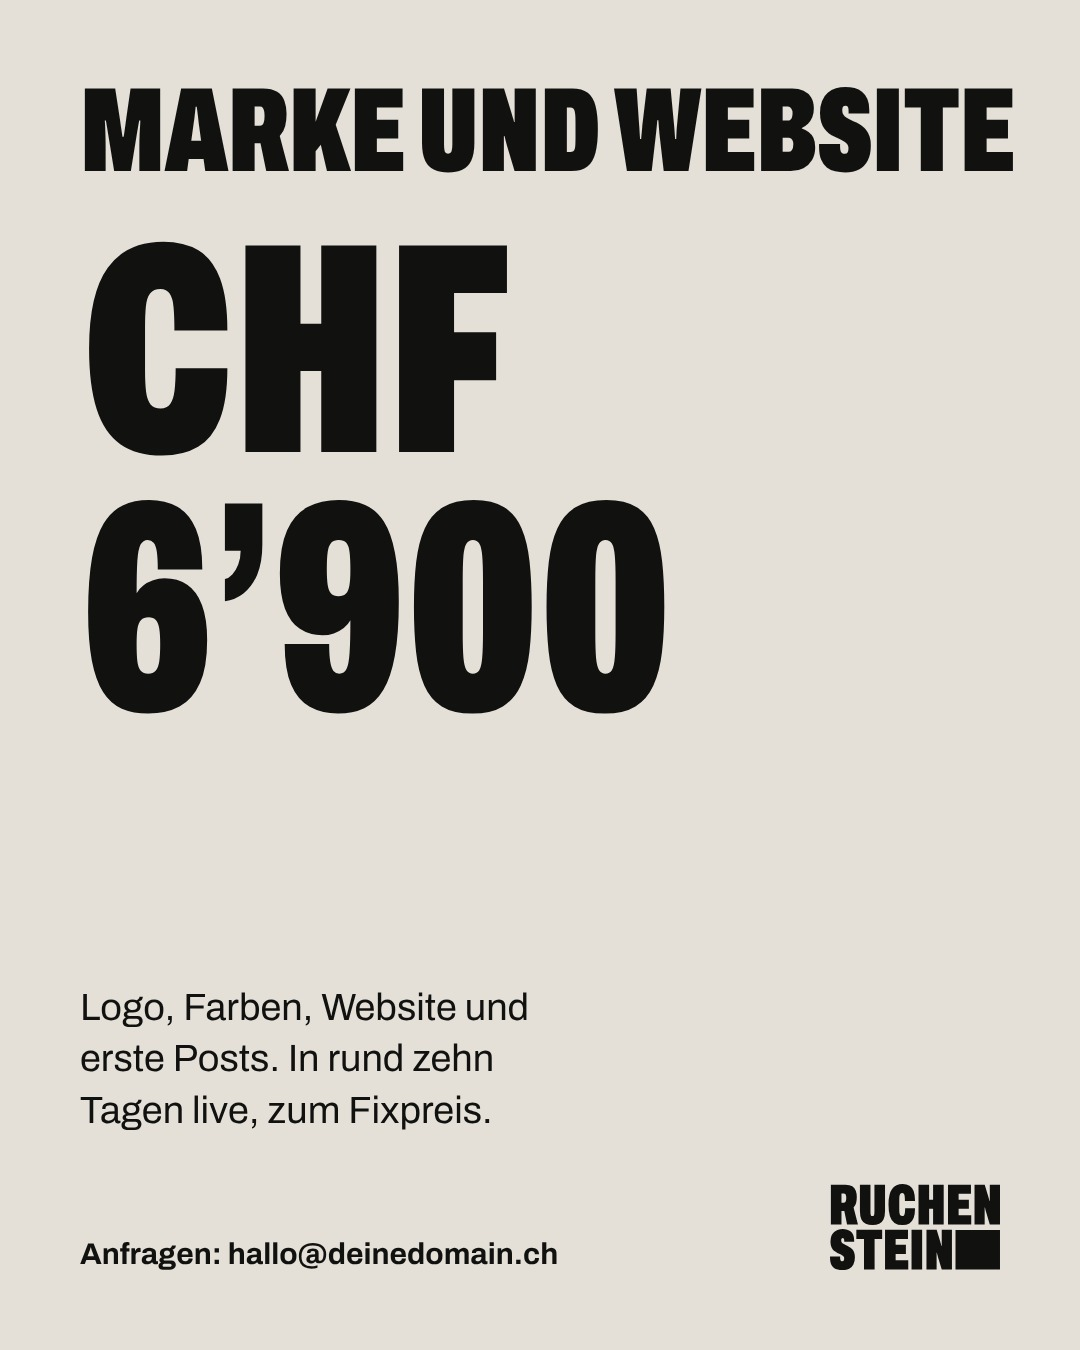
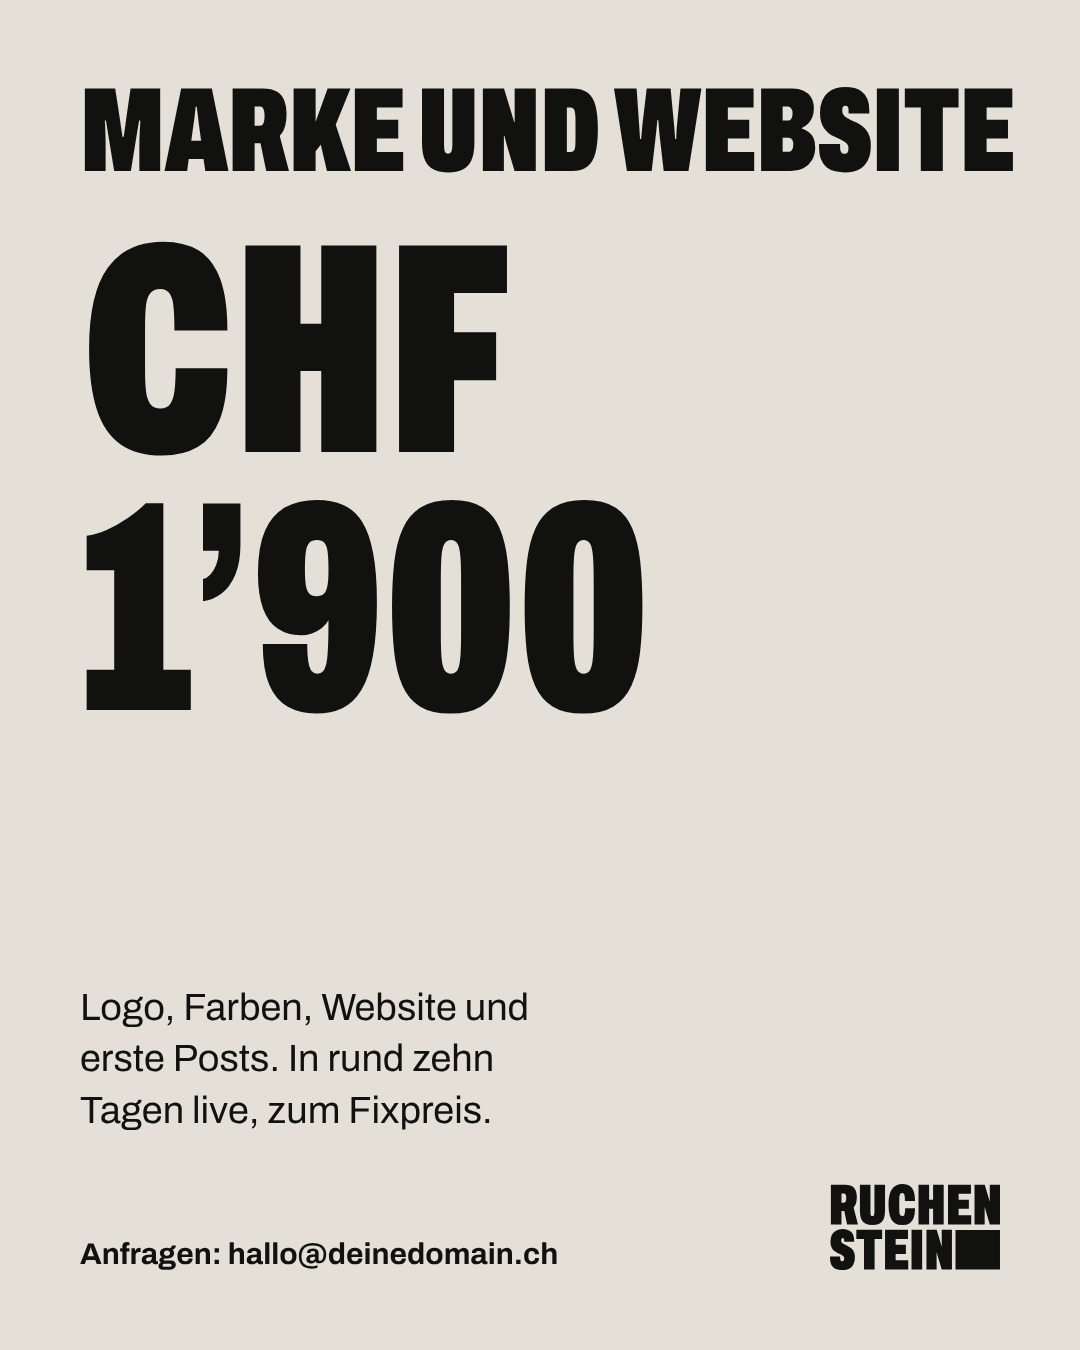
Link live SOLUM shop and lower Ruchenstein prices
Claude-Session: https://claude.ai/code/session_01GPzAppizXQBZvZdEeGsJeC

Changed region(s): [[0.0611, 0.3733, 0.6417, 0.5289]]

diff --git a/ruchenstein/index.html b/ruchenstein/index.html
@@ -115,7 +115,7 @@ footer{display:flex;justify-content:space-between;flex-wrap:wrap;gap:8px 24px;pa
         <h3>SOLUM</h3>
         <p>Online-Shop für eine Sneaker-Marke, die ich als Übung erfunden habe</p>
         <p>2026</p>
-        <a class="ul" href="../solum/index.html">Shop ansehen</a>
+        <a class="ul" href="https://silver-sunburst-8f3310.netlify.app" target="_blank" rel="noopener">Shop ansehen</a>
       </div>
       <div class="pics">
         <figure class="rv"><img src="img/work-solum-hero.webp" alt="Startseite von SOLUM am Laptop" width="1600" height="1000" loading="lazy"></figure>
@@ -141,9 +141,9 @@ footer{display:flex;justify-content:space-between;flex-wrap:wrap;gap:8px 24px;pa
       <p>Zuerst reden wir eine halbe Stunde darüber, was du verkaufst und an wen. Danach zeige ich dir zwei Entwürfe mit deinen echten Texten. Sobald du dich entschieden hast, baue ich die Website auf einem Vorschau-Link, den du jederzeit anschauen kannst.</p>
     </div>
     <dl class="prices">
-      <dt>Einfache Website</dt><dd>ab CHF 2’900</dd>
-      <dt>Logo und Website</dt><dd>ab CHF 6’900</dd>
-      <dt>Online-Shop</dt><dd>ab CHF 9’900</dd>
+      <dt>Einfache Website</dt><dd>ab CHF 1’200</dd>
+      <dt>Logo und Website</dt><dd>ab CHF 1’900</dd>
+      <dt>Online-Shop</dt><dd>ab CHF 3’500</dd>
       <dd class="small">Du bekommst vorher ein festes Angebot. Domain und Hosting kosten zusätzlich, meist unter CHF 100 im Jahr.</dd>
     </dl>
   </section>
